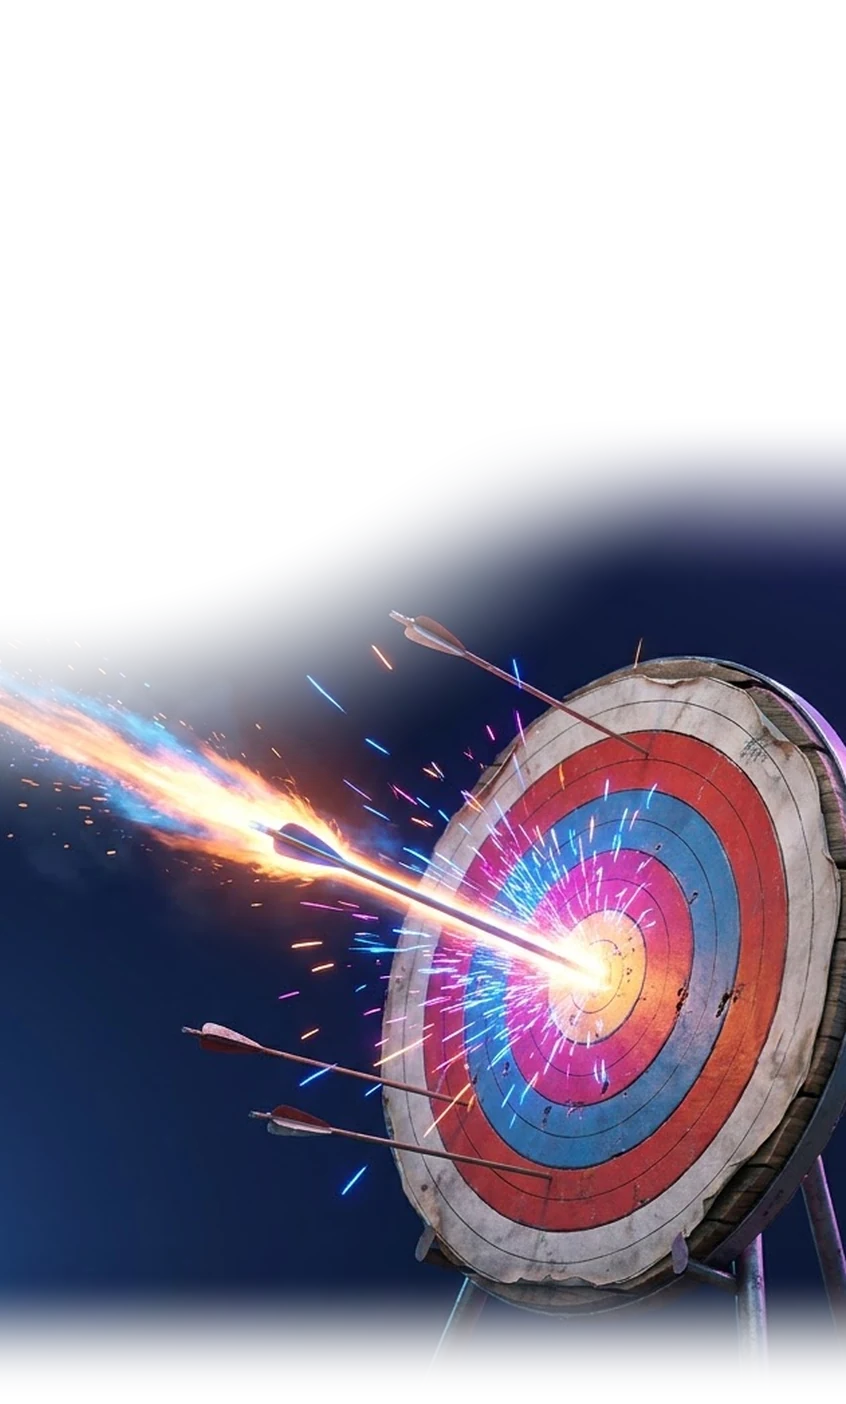
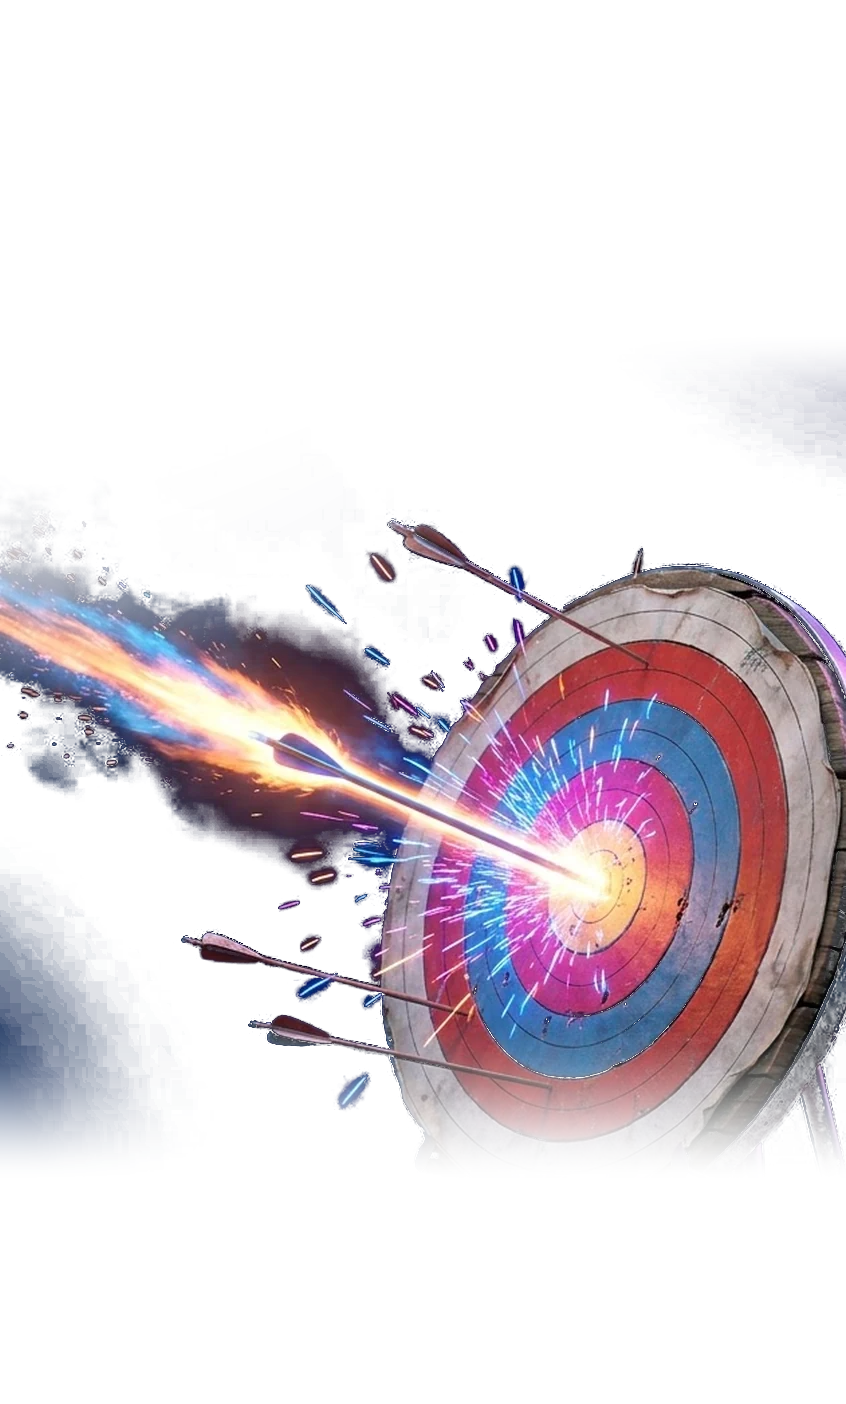
Games page: no game numbers, text and art lifted with more overlap, arc lower, smaller softer planet glow, art fully melts into the backdrop
Claude-Session: https://claude.ai/code/session_01M1zZESrXzYjoRQjWUzRNCF

diff --git a/src/features/games/GamePage.tsx b/src/features/games/GamePage.tsx
@@ -4,7 +4,7 @@ import { Pressable, StyleSheet, View } from 'react-native';
 import { Text } from '@/components/AppText';
 import Animated, { type SharedValue, useAnimatedStyle } from 'react-native-reanimated';
 
-import { type Game, GAMES } from '@/data/games';
+import type { Game } from '@/data/games';
 import { useLoading } from '@/features/loading/store';
 import { useTheme } from '@/state/app';
 import { u } from '@/theme/scale';
@@ -37,7 +37,6 @@ export function GamePage({ game, j, pos, active }: { game: Game; j: number; pos:
     <Animated.View style={[StyleSheet.absoluteFill, slide]} pointerEvents={active ? 'box-none' : 'none'} accessibilityElementsHidden={!active} importantForAccessibility={active ? 'auto' : 'no-hide-descendants'}>
       <GameArt k={game.key} mode={t.mode} />
       <View style={s.info}>
-        <Text style={[s.kick, { color: t.soft }]}>{`${String(j + 1).padStart(2, '0')} / ${String(GAMES.length).padStart(2, '0')}`}</Text>
         <Text style={[s.ttl, { color: t.white }]}>
           {game.lead} <Text style={{ color: t.accent, fontFamily: F.displayItalic }}>{game.em}</Text>
         </Text>
@@ -57,9 +56,8 @@ export function GamePage({ game, j, pos, active }: { game: Game; j: number; pos:
 }
 
 const s = StyleSheet.create({
-  info: { position: 'absolute', left: u(16), right: u(16), top: u(40) },
-  kick: { fontFamily: F.mono, fontSize: u(8.5), lineHeight: u(12), letterSpacing: u(1.7), textTransform: 'uppercase' },
-  ttl: { marginTop: u(7), fontFamily: F.display, fontSize: u(32), lineHeight: u(28.8), letterSpacing: u(-0.64) },
+  info: { position: 'absolute', left: u(16), right: u(16), top: u(22) },
+  ttl: { fontFamily: F.display, fontSize: u(32), lineHeight: u(28.8), letterSpacing: u(-0.64) },
   sub: { marginTop: u(8), fontFamily: F.displayItalic, fontSize: u(13), lineHeight: u(17) },
   desc: { marginTop: u(7), marginBottom: u(2), maxWidth: u(190), fontFamily: F.body, fontSize: u(11), lineHeight: u(15.95) },
   goWrap: { marginTop: u(7), alignSelf: 'flex-start' },

diff --git a/src/features/games/Planet.tsx b/src/features/games/Planet.tsx
@@ -56,9 +56,9 @@ export function Planet({ k, j, pos, sel, mode, onPress }: { k: string; j: number
   const sg = p.drop.blur / 2;
   const dropPeak = p.drop.c[3] * (1 - Math.exp(-(rs * rs) / (2 * sg * sg)));
   const dropR = rs + 2 * sg;
-  // selected halo: 0 0 0 5px (.3) + 0 0 34px (.75)
-  const gR = d / 2 + 34;
-  const gPeak = 0.75 * (1 - Math.exp(-((d / 2) ** 2) / (2 * 17 * 17)));
+  // selected halo (Yazan 2026-10-18: spread 70% smaller, half as strong): 0 0 0 5px (.15) + 0 0 10px (.375)
+  const gR = d / 2 + 10;
+  const gPeak = 0.375 * (1 - Math.exp(-((d / 2) ** 2) / (2 * 5 * 5)));
   // inset shadow -4px -6px 10px
   const ins = isSel ? p.insetSel : p.inset;
   const r = d / 2;
@@ -86,12 +86,12 @@ export function Planet({ k, j, pos, sel, mode, onPress }: { k: string; j: number
           <Defs>
             <RadialGradient id={`gl-${id}`} cx={r} cy={r} r={gR} gradientUnits="userSpaceOnUse">
               <Stop offset="0" stopColor={rgb(p.halo)} stopOpacity={gPeak} />
-              <Stop offset={r / gR} stopColor={rgb(p.halo)} stopOpacity={0.375} />
+              <Stop offset={r / gR} stopColor={rgb(p.halo)} stopOpacity={0.19} />
               <Stop offset="1" stopColor={rgb(p.halo)} stopOpacity={0} />
             </RadialGradient>
           </Defs>
           <Circle cx={r} cy={r} r={gR} fill={`url(#gl-${id})`} />
-          <Circle cx={r} cy={r} r={r + 2.5} fill="none" stroke={rgb(p.halo)} strokeOpacity={0.3} strokeWidth={5} />
+          <Circle cx={r} cy={r} r={r + 2.5} fill="none" stroke={rgb(p.halo)} strokeOpacity={0.15} strokeWidth={5} />
         </Svg>
       </Animated.View>
       <Svg width="100%" height="100%" viewBox={`0 0 ${d} ${d}`} style={StyleSheet.absoluteFill}>

diff --git a/src/features/games/fit.ts b/src/features/games/fit.ts
@@ -5,7 +5,7 @@
 export const W = 282;
 export const BODY_TOP = 72; // the shell's content area starts here
 export const SHIFT = 20; // decision 63: ring, planets, dots and art anchor sit 20px lower
-export const ARC_DROP = 18; // 2026-10-13: ring, planets and dots only (not the art) sit this much lower, close to the nav
+export const ARC_DROP = 32; // 2026-10-13: ring, planets and dots only (not the art) sit this much lower, close to the nav
 export const DOTS_TOP = 398 + SHIFT; // screen y of the swipe dots
 export const ART_B = DOTS_TOP + 66; // bottom of the art box (fitArc: dots top + 66)
 // 2026-10-05: the ring's fill is gone, so each drawing moves down and fades just above the nav bar.

diff --git a/scripts/bake-game-art-full.py b/scripts/bake-game-art-full.py
@@ -6,7 +6,8 @@ It is laid over the 282 x 615 design screen like CSS cover (nudged right), cut t
   - the scene's own top and bottom edges (some pictures have a hard band there) fade out softly,
   - a big curve clears the upper left so the title stays readable, and the scene's upper left
     tucks under the text's lower right (decision: "tucked, bigger"),
-  - the last stretch above the nav fades out.
+  - the art is gone before the planets on the arc, so a gap stays between them,
+  - wherever the picture is just its own navy sky it turns clear, so no box edge shows.
 Run: python3 scripts/bake-game-art-full.py   (needs Pillow, numpy)
 """
 import os
@@ -17,6 +18,8 @@ ROOT = os.path.dirname(os.path.dirname(os.path.abspath(__file__)))
 W, SH, TOP, END = 282, 615, 72, 540  # design screen, body top, art end (src/features/games/fit.ts)
 SCALE = 3
 NUDGE = 0.7  # 0 = keep the left edge, 1 = keep the right edge, when the picture is wider than the screen
+UP = 30  # the scene sits this much higher than the picture's own place (2026-10-18: lifted, more overlap)
+CLEAR = 466  # screen y where the art is fully gone, a clear gap above the planets on the arc
 
 # Scene band in picture px (of 1376): fade in over [a, b] at the top and out over [c, d] at the bottom.
 # a/d sit on (or just inside) any hard band edge, so no straight line survives.
@@ -45,7 +48,7 @@ for k, (a, b, c, d) in BAND.items():
     pw, ph = src.size
     s = max(W / pw, SH / ph)  # design px per picture px
     ox = (W - pw * s) * NUDGE
-    oy = (SH - ph * s) / 2
+    oy = (SH - ph * s) / 2 - UP
     ow, oh = W * SCALE, (END - TOP) * SCALE
     X, Y = np.meshgrid((np.arange(ow) + 0.5) / SCALE, TOP + (np.arange(oh) + 0.5) / SCALE)
     # sample the picture: resize the whole thing, then crop the body window
@@ -54,10 +57,13 @@ for k, (a, b, c, d) in BAND.items():
     canvas.paste(big, (round(ox * SCALE), round((oy - TOP) * SCALE)))
     rgb = np.asarray(canvas).astype(np.float64) / 255
     py = (Y - oy) / s  # picture row under each pixel
-    band = smooth(py, a, b) * (1 - smooth(py, c, d))
-    curve = smooth(np.hypot(X / W, Y / (0.52 * SH)), 0.86, 1.12)  # clears the title corner
-    nav = 1 - smooth(Y, END - 44, END)
-    alpha = band * curve * nav
+    band = smooth(py, a + 6, b) * (1 - smooth(py, c, d - 6))
+    curve = smooth(np.hypot(X / W, Y / (0.52 * SH)), 0.7, 1.0)  # clears the title corner, scene tucks under the text
+    nav = 1 - smooth(Y, CLEAR - 56, CLEAR)
+    # the picture's own navy sky melts away, so no tinted box is left where it meets the app navy
+    sky = np.median(np.asarray(src)[:20].reshape(-1, 3), axis=0) / 255
+    key = smooth(np.linalg.norm(rgb - sky, axis=2), 0.04, 0.17)
+    alpha = band * curve * nav * key
     img = Image.fromarray(np.round(np.dstack([rgb, alpha]) * 255).astype(np.uint8), 'RGBA')
     dst = os.path.join(ROOT, 'assets/games/baked/dark', f'{k}.webp')
     img.save(dst, 'WEBP', quality=88, method=6)
